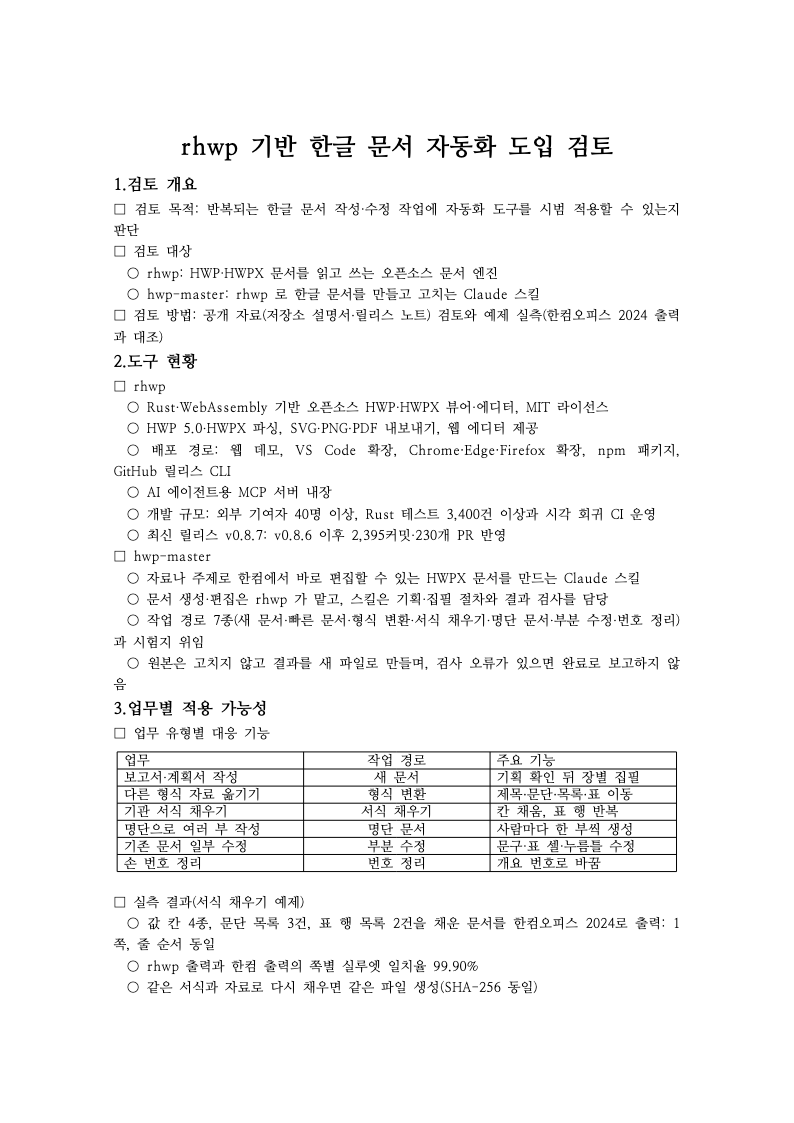
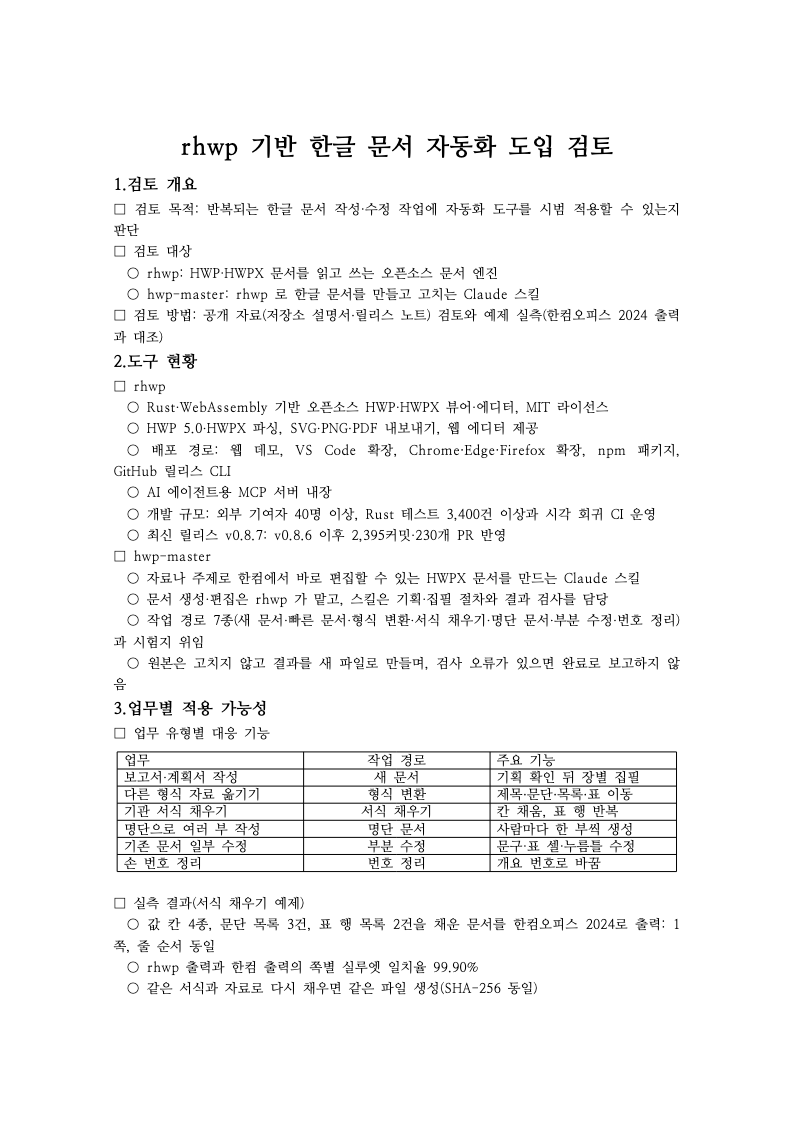
feat: Release 의 rhwp 바이너리 설치 기록·안내, report 예제 재생성 (0.1.15)
- skills/hwp-master/rhwp_release.json: Release rhwp-0.9.0-4e2cc6b(upstream devel 4e2cc6bb)의 OS별
  파일과 SHA-256. install_rhwp.py 가 이 값으로 대조해 설치한다.
- README 설치 안내를 Release 설치 우선으로 바꾸고 소스 빌드는 대체 경로로 둔다.
- examples/report: 0.1.14 의 표 배치 수정으로 바뀐 HWPX·한컴 PDF·TSV·PNG 를 다시 만든다.
- 설치 스크립트 테스트(기록 형식·플랫폼 판정·경로 탈출·SHA-256 불일치).

Changed region(s): [[0.3929, 0.8103, 0.8463, 0.9038], [0.1511, 0.7792, 0.3929, 0.9038]]

diff --git a/tests/test_install_rhwp.py b/tests/test_install_rhwp.py
@@ -1,0 +1,72 @@
+"""rhwp 바이너리 설치 스크립트: python3 -m unittest tests.test_install_rhwp
+
+네트워크 없이 고정 기록(rhwp_release.json)·플랫폼 판정·압축 풀기 안전성·SHA-256 대조를 본다.
+"""
+import io
+import sys
+import tarfile
+import tempfile
+import unittest
+from pathlib import Path
+from unittest import mock
+
+ROOT = Path(__file__).resolve().parents[1]
+sys.path.insert(0, str(ROOT / "skills/hwp-master/scripts"))
+import install_rhwp  # noqa: E402
+
+
+def tar_with(name: str, data: bytes = b"x") -> bytes:
+    buf = io.BytesIO()
+    with tarfile.open(fileobj=buf, mode="w:gz") as t:
+        info = tarfile.TarInfo(name)
+        info.size = len(data)
+        t.addfile(info, io.BytesIO(data))
+    return buf.getvalue()
+
+
+class LockTest(unittest.TestCase):
+    def test_lock_pins_commit_and_three_platforms(self):
+        lock = install_rhwp.load_lock()
+        self.assertRegex(lock["rhwp_commit"], r"^[0-9a-f]{40}$")
+        self.assertTrue(lock["tag"].startswith(f"rhwp-{lock['rhwp_version']}-{lock['rhwp_commit'][:7]}"))
+        for suffix in ("macos-aarch64", "linux-x86_64", "windows-x86_64"):
+            asset = next(a for a in lock["assets"] if suffix in a)
+            self.assertRegex(lock["assets"][asset], r"^[0-9a-f]{64}$")
+
+    def test_platform_suffix(self):
+        cases = [("darwin", "arm64", "macos-aarch64"), ("linux", "x86_64", "linux-x86_64"),
+                 ("win32", "AMD64", "windows-x86_64"), ("darwin", "x86_64", None), ("linux", "aarch64", None)]
+        for plat, machine, want in cases:
+            with self.subTest(plat=plat, machine=machine), mock.patch.object(install_rhwp.sys, "platform", plat), \
+                    mock.patch.object(install_rhwp.platform, "machine", return_value=machine):
+                self.assertEqual(install_rhwp.platform_suffix(), want)
+
+
+class ExtractTest(unittest.TestCase):
+    def test_rejects_paths_outside_target(self):
+        with tempfile.TemporaryDirectory() as tmp:
+            archive = Path(tmp) / "bad.tar.gz"
+            archive.write_bytes(tar_with("../escape"))
+            with self.assertRaises(RuntimeError):
+                install_rhwp._safe_extract(archive, Path(tmp) / "out")
+            self.assertFalse((Path(tmp) / "escape").exists())
+
+    def test_checksum_mismatch_is_refused(self):
+        with tempfile.TemporaryDirectory() as tmp:
+            lock = {"repo": "o/r", "tag": "rhwp-0.0.0-abcdef0", "rhwp_commit": "a" * 40,
+                    "assets": {"rhwp-x-macos-aarch64.tar.gz": "0" * 64}}
+
+            def fake_download(_lock, _asset, dest):
+                dest.write_bytes(tar_with("rhwp/rhwp"))
+                return "test"
+
+            with mock.patch.object(install_rhwp, "load_lock", return_value=lock), \
+                    mock.patch.object(install_rhwp, "platform_suffix", return_value="macos-aarch64"), \
+                    mock.patch.object(install_rhwp, "_download", side_effect=fake_download):
+                with self.assertRaisesRegex(RuntimeError, "SHA-256"):
+                    install_rhwp.install(Path(tmp) / "dest")
+            self.assertFalse((Path(tmp) / "dest").exists(), "검증 전에는 설치 폴더를 만들지 않는다")
+
+
+if __name__ == "__main__":
+    unittest.main()

diff --git a/README.md b/README.md
@@ -13,7 +13,7 @@
 - 문서 엔진: [rhwp](https://github.com/edwardkim/rhwp) — HWP/HWPX 를 읽고 쓰는 오픈소스 엔진의 CLI 를 호출합니다.
 - hwp-master 는 기획·집필 절차와 결과 검사를 맡습니다. 검사에서 오류가 하나라도 나오면 완료로 보고하지 않습니다.
 
-> 상태: 0.1.14 — 새 문서(Default·Quick)·형식 변환·서식 채우기·명단 문서·부분 수정·번호 정리, 시험지 위임.
+> 상태: 0.1.15 — 새 문서(Default·Quick)·형식 변환·서식 채우기·명단 문서·부분 수정·번호 정리, 시험지 위임.
 > 새 문서의 블록은 제목·문단·표·쪽 나눔·그림(캡션)·목록(□ ○ - · 단계, 내어쓰기)·목차(쪽 번호)·표 캡션·제목 행·열 폭 비율·셀 병합·셀 강조와 글자 강조(굵게·기울임·밑줄·취소선·색·형광펜·크기)·캡션 자동 번호·각주·머리말·꼬리말(쪽 번호)·용지 방향과 여백입니다. 예제 결과물은 [examples/](examples/) 에 있습니다.
 
 ## 빠른 시작
@@ -23,66 +23,50 @@
 **필요한 것은 [Python](https://www.python.org/downloads/) 3.9 이상과 rhwp 0.9.0 이상 두 가지입니다.**
 hwp-master 스크립트는 Python 표준 라이브러리만 쓰므로 `pip install` 할 것이 없습니다.
 
-rhwp 0.9.0 은 아직 릴리스 전이라 소스에서 빌드합니다. 최신 릴리스 v0.8.7 로는 누름틀 채우기·표 행 반복의 저장
-자기검증이 맞지 않아(exit 3) 이 저장소 자동 테스트 57건 중 8건이 실패합니다.
-
-<details>
-<summary><strong>macOS</strong> — 확인한 경로 (2026-11-02, rhwp <code>devel</code> <code>0c1e5a6f</code>, 빌드 약 11분)</summary>
+**rhwp 는 이 저장소의 Release 에 올린 바이너리로 설치합니다(빌드 불필요).** 공개 upstream
+[edwardkim/rhwp](https://github.com/edwardkim/rhwp) 의 고정 커밋을 GitHub Actions 에서 그대로 빌드한 것이고(MIT),
+어느 Release·커밋·SHA-256 을 쓸지는 `skills/hwp-master/rhwp_release.json` 에 고정돼 있습니다.
 
 ```bash
-# Python (이미 있으면 생략)
-brew install python
-
-# Rust 툴체인 (이미 있으면 생략)
-curl --proto '=https' --tlsv1.2 -sSf https://sh.rustup.rs | sh
-
-# rhwp CLI — 릴리스 바이너리와 같은 native-skia 기능을 켜야 PNG·PDF 미리보기가 동작합니다
-cargo install --locked --git https://github.com/edwardkim/rhwp --branch devel \
-  --features native-skia --bin rhwp rhwp
-
-rhwp --version    # rhwp v0.9.0
+python3 skills/hwp-master/scripts/install_rhwp.py
+# rhwp v0.9.0 설치 — ~/.local/share/hwp-master/rhwp/rhwp-0.9.0-4e2cc6b/rhwp/rhwp
+python3 skills/hwp-master/scripts/rhwp_locate.py    # 설치한 바이너리를 자동으로 찾는다
 ```
-</details>
+
+| OS | 파일 | 확인 |
+|---|---|---|
+| macOS (Apple Silicon) | `rhwp-0.9.0-4e2cc6b-macos-aarch64.tar.gz` | 설치·hwp-master 전체 테스트·예제 재현 (2026-11-03) |
+| Linux x86_64 (glibc 2.35 이상) | `rhwp-0.9.0-4e2cc6b-linux-x86_64.tar.gz` | 빌드 runner 에서 PNG 내보내기 검증 |
+| Windows x86_64 | `rhwp-0.9.0-4e2cc6b-windows-x86_64.zip` | 빌드 runner 에서 PNG 내보내기 검증 |
+
+- 받은 압축 파일의 SHA-256 이 `rhwp_release.json` 과 다르면 설치하지 않습니다.
+- 받기는 `gh release download` 를 먼저 씁니다. 저장소가 비공개인 동안에는 [GitHub CLI](https://cli.github.com/) 로
+  `gh auth login` 한 계정에 저장소 권한이 있어야 합니다.
+- Linux 미리보기(PNG·PDF)에 한글이 나오려면 한글 글꼴이 있어야 합니다(`sudo apt install fonts-noto-cjk`). 없으면
+  HWPX 는 정상이고 미리보기 한글만 빠지며, hwp-master 가 경고(R105)를 냅니다.
+- Intel Mac·Linux ARM 은 바이너리가 없어 아래처럼 소스에서 빌드합니다.
 
 <details>
-<summary><strong>Linux (Ubuntu / Debian)</strong> — 확인한 경로 (2026-11-03, 새 <code>ubuntu:24.04</code> 컨테이너, rhwp <code>devel</code> <code>ea86816b</code>, 24코어에서 빌드 11~20분)</summary>
+<summary><strong>소스에서 빌드</strong> — Intel Mac·Linux ARM, 또는 다른 rhwp 커밋을 쓸 때</summary>
 
 ```bash
-# Python·빌드 도구, rhwp 가 링크하는 fontconfig·freetype, 미리보기용 한글 글꼴
-sudo apt install python3 build-essential curl git \
-  libfontconfig1-dev libfreetype6-dev fonts-noto-cjk
-
 # Rust 툴체인 (이미 있으면 생략)
 curl --proto '=https' --tlsv1.2 -sSf https://sh.rustup.rs | sh
-. "$HOME/.cargo/env"
+# Linux 는 먼저: sudo apt install build-essential libfontconfig1-dev libfreetype6-dev fonts-noto-cjk
 
+# native-skia 기능을 켜야 PNG·PDF 미리보기가 동작합니다
 cargo install --locked --git https://github.com/edwardkim/rhwp --branch devel \
   --features native-skia --bin rhwp rhwp
-
 rhwp --version    # rhwp v0.9.0
 ```
 
-- `libfontconfig1-dev`·`libfreetype6-dev` 가 없으면 빌드 마지막에 `unable to find library -lfreetype` 로 실패합니다.
-- 한글 글꼴이 없으면 HWPX 는 정상으로 만들어지지만 미리보기 PNG·PDF 에서 한글이 빠집니다. 데스크톱 Ubuntu 에는
-  대개 설치돼 있고, 서버·WSL·컨테이너에는 없습니다. hwp-master 는 이때 경고(R105)를 냅니다.
+macOS 약 11분, Linux 24코어 11~20분 걸렸습니다(2026-11-02~03). Linux 에서 `libfontconfig1-dev`·`libfreetype6-dev` 가
+없으면 빌드 마지막에 `unable to find library -lfreetype` 로 실패합니다. 이 저장소 관리자는
+`gh workflow run rhwp-binaries.yml -f rhwp_ref=<커밋 SHA>` 로 새 Release 를 만들 수 있습니다.
 </details>
 
-<details>
-<summary><strong>Windows</strong> — 아직 hwp-master 로 확인하지 않은 경로</summary>
-
-[python.org](https://www.python.org/downloads/) 설치 때 **"Add to PATH"** 를 켜고, [rustup](https://rustup.rs/) 으로
-Rust 를 설치한 뒤 macOS 와 같은 `cargo install` 을 실행합니다. rhwp 릴리스는 Windows 바이너리도 같은 `native-skia`
-기능으로 빌드하지만, Windows 에서 hwp-master 전체를 돌려 보지는 않았습니다. 문제가 생기면 이슈로 알려 주세요.
-</details>
-
-<details>
-<summary><strong>rhwp 0.9.0 이 릴리스된 뒤</strong> — 빌드 없이 설치</summary>
-
-[rhwp Releases](https://github.com/edwardkim/rhwp/releases) 에서 OS 별 압축 파일을 받아 `SHA256SUMS.txt` 로 확인하고,
-압축을 풀어 `rhwp` 를 PATH 에 둡니다. rhwp CLI 는 crates.io·npm 에는 없습니다.
-</details>
-
-PATH 에 두지 않으려면 `RHWP_BIN=/경로/rhwp` 로 지정합니다.
+찾는 순서는 `--rhwp` 인자 → `RHWP_BIN` 환경변수 → 설치 스크립트 바이너리 → PATH 의 `rhwp` 입니다. 직접 빌드한 rhwp 를
+쓰려면 `RHWP_BIN=/경로/rhwp` 로 지정합니다.
 
 ### 2. 에이전트 고르기
 

diff --git a/examples/report/README.md b/examples/report/README.md
@@ -11,9 +11,9 @@ Default 라우트(기획 확인 → 단위 집필 → 빌드·검사)로 만든 
 | `spec_lock.json` | 기획 잠금 — 문서 규칙(`gaejosik`), 최대 쪽수 3 | |
 | `outline.json` | 장 구성과 장별 근거 자료 | |
 | `units/U01–U05.json` | 장별 HDS 원고 (제목·문단·표) | |
[2 lines of base64/hex data omitted]
-| `tsv/report_native_silhouette.tsv` | rhwp 출력과 한컴 PDF 의 쪽별 실루엣 일치율 (1쪽 98.55%, 2쪽 98.94%) | |
[2 lines of base64/hex data omitted]
+| `tsv/report_native_silhouette.tsv` | rhwp 출력과 한컴 PDF 의 쪽별 실루엣 일치율 (1쪽 98.56%, 2쪽 98.94%) | |
 | `png/page1.png`, `png/page2.png` | rhwp 미리보기 | |
 
 근거 자료(`outline.json` 의 `sources/…`)는 2026-11-02 당시의 rhwp·hwp-master README, 사용 설명서, rhwp v0.8.7
@@ -21,8 +21,9 @@ Default 라우트(기획 확인 → 단위 집필 → 빌드·검사)로 만든 
 
 ## 재현
 
-rhwp `devel` `ea86816b`(0.9.0) 에서 같은 원고는 macOS·Linux 모두 같은 바이트의 HWPX 를 만듭니다(2026-11-03 확인).
-rhwp 커밋이 바뀌면 SHA-256 도 바뀔 수 있습니다.
+hwp-master 0.1.14 와 배포 바이너리 `rhwp-0.9.0-4e2cc6b`(`install_rhwp.py`) 로 다시 만든 판입니다. rhwp `ea86816b` 로도
+같은 바이트가 나옵니다(2026-11-03 확인). 0.1.14 부터 표를 "쪽 영역 안으로 제한"으로 저장해 이전 판(`52b6…`)과 SHA-256 이
+다릅니다. rhwp 커밋이 바뀌면 SHA-256 도 바뀔 수 있습니다.
 
 ```bash
 P=$(python3 skills/hwp-master/scripts/project_manager.py init report-demo | tail -1)
@@ -40,5 +41,5 @@ rhwp 쪽 수정은 [edwardkim/rhwp#8433](https://github.com/edwardkim/rhwp/pull/
 [#8429](https://github.com/edwardkim/rhwp/pull/8429)(scaffold 의 측정하지 않은 줄 정보)로 제출돼 있고, 두 변경을 넣은
 빌드로는 같은 원고의 실루엣 일치율이 두 쪽 모두 99.97% 였습니다. 두 PR 이 반영되면 이 예제를 다시 만듭니다.
 
-측정: 2026-11-03, `scripts/visual_sweep.py --silhouette-only --compat 2024 --dpi 96`(rhwp 저장소, 같은 `ea86816b` 빌드),
+측정: 2026-11-03, `scripts/visual_sweep.py --silhouette-only --compat 2024 --dpi 96`(rhwp 저장소, `rhwp-0.9.0-4e2cc6b` 배포 바이너리),
 rhwp 글꼴 `ttfs/opensource`. 한컴 PDF 는 `report.hwpx` 를 한컴오피스 2024 로 Print 출력한 2쪽입니다.

diff --git a/skills/hwp-master/SKILL.md b/skills/hwp-master/SKILL.md
@@ -2,7 +2,7 @@
 name: hwp-master
 description: 자료(PDF·DOCX·MD·웹·기존 HWP) 또는 주제를 받아 한컴에서 편집 가능한 네이티브 HWPX 문서(개조식 보고서·사업계획서·제안서·기안문·회의록)를 rhwp로 생성합니다. 트리거 — "한글 문서로 만들어줘", "hwp 보고서 작성", "사업계획서 hwpx로", "이 자료로 기안문", "/hwp-master".
 metadata:
-  version: 0.1.14
+  version: 0.1.15
   license: MIT
   repository: https://github.com/planet6897/hwp-master
 ---
@@ -17,6 +17,7 @@ metadata:
 | 스크립트 | 용도 |
 |---|---|
 | `scripts/rhwp_locate.py` | rhwp 위치·버전 확인 (최소 0.9.0) |
+| `scripts/install_rhwp.py` | 이 저장소 Release 의 rhwp 바이너리 설치 (`rhwp_release.json` 의 SHA-256 대조) |
 | `scripts/project_manager.py` | `init` · `import-sources` · `validate --stage early/final` · `status` |
 | `scripts/hds_lint.py` | HDS 문서 또는 프로젝트 검사 (오류 차단, 경고 비차단) |
 | `scripts/build.py` | 조립 → 검사 → `rhwp scaffold` + 편집 후처리(`native.py`) → 영수증 → verify·개요 대조·조판 이상·쪽수 한도 → 미리보기 → `validation/report.json` |
@@ -64,6 +65,7 @@ metadata:
 
 ## 정지 규칙
 
-- `rhwp` 바이너리를 찾지 못하거나 최소 버전 미만이면 중단하고 설치 안내를 한다.
+- `rhwp` 바이너리를 찾지 못하거나 최소 버전 미만이면 중단하고, 사용자 동의를 받아 `python3 scripts/install_rhwp.py` 로 설치한다
+  (macOS Apple Silicon·Linux x86_64·Windows x86_64). 다른 플랫폼은 README 의 소스 빌드를 안내한다.
 - Strategist 확인 게이트에서 사용자 확인 없이 집필로 넘어가지 않는다 (Quick 제외).
 - final 검사에 오류가 1건이라도 있으면 산출물을 완료로 보고하지 않는다.

diff --git a/docs/usage.md b/docs/usage.md
@@ -227,7 +227,7 @@ hwp-master 가 아니라 rhwp 의 `rhwp-exam-ingest` 스킬이 만듭니다. Cla
 | 증상 | 원인과 대처 |
 |---|---|
 | "rhwp 바이너리를 찾지 못했습니다" | rhwp 를 설치하고 PATH 에 두거나 `RHWP_BIN` 을 지정합니다. |
-| "최소 버전 0.9.0 미만" | 릴리스 v0.8.7 은 지원하지 않습니다. README 의 소스 설치를 따릅니다. |
+| "최소 버전 0.9.0 미만" | 릴리스 v0.8.7 은 지원하지 않습니다. `python3 skills/hwp-master/scripts/install_rhwp.py` 로 이 저장소 Release 의 0.9.0 을 설치합니다. |
 | 제목이 "1. 1. 추진 배경" 처럼 이중 번호 | 제목에 번호를 직접 썼습니다(E101). 번호를 지웁니다. |
 | 표 셀 글이 미리보기에서 잘림 (W201) | 한컴에서는 줄바꿈됩니다. 셀 문장을 줄이거나 열 수를 줄입니다. |
 | 쪽수 초과 (R104) | 분량을 줄이거나 쪽 한도를 늘립니다. |
